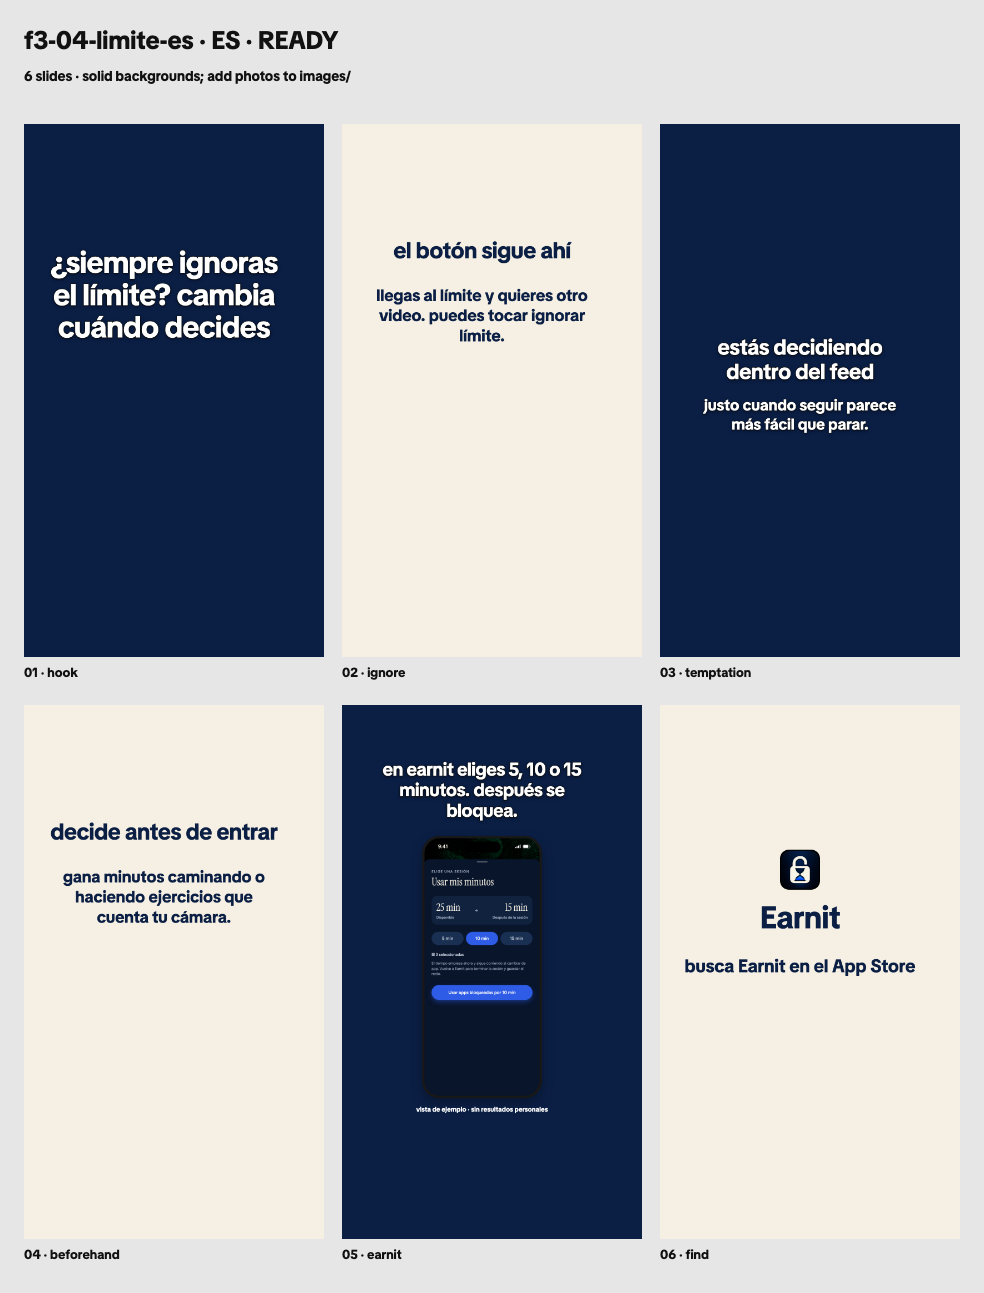
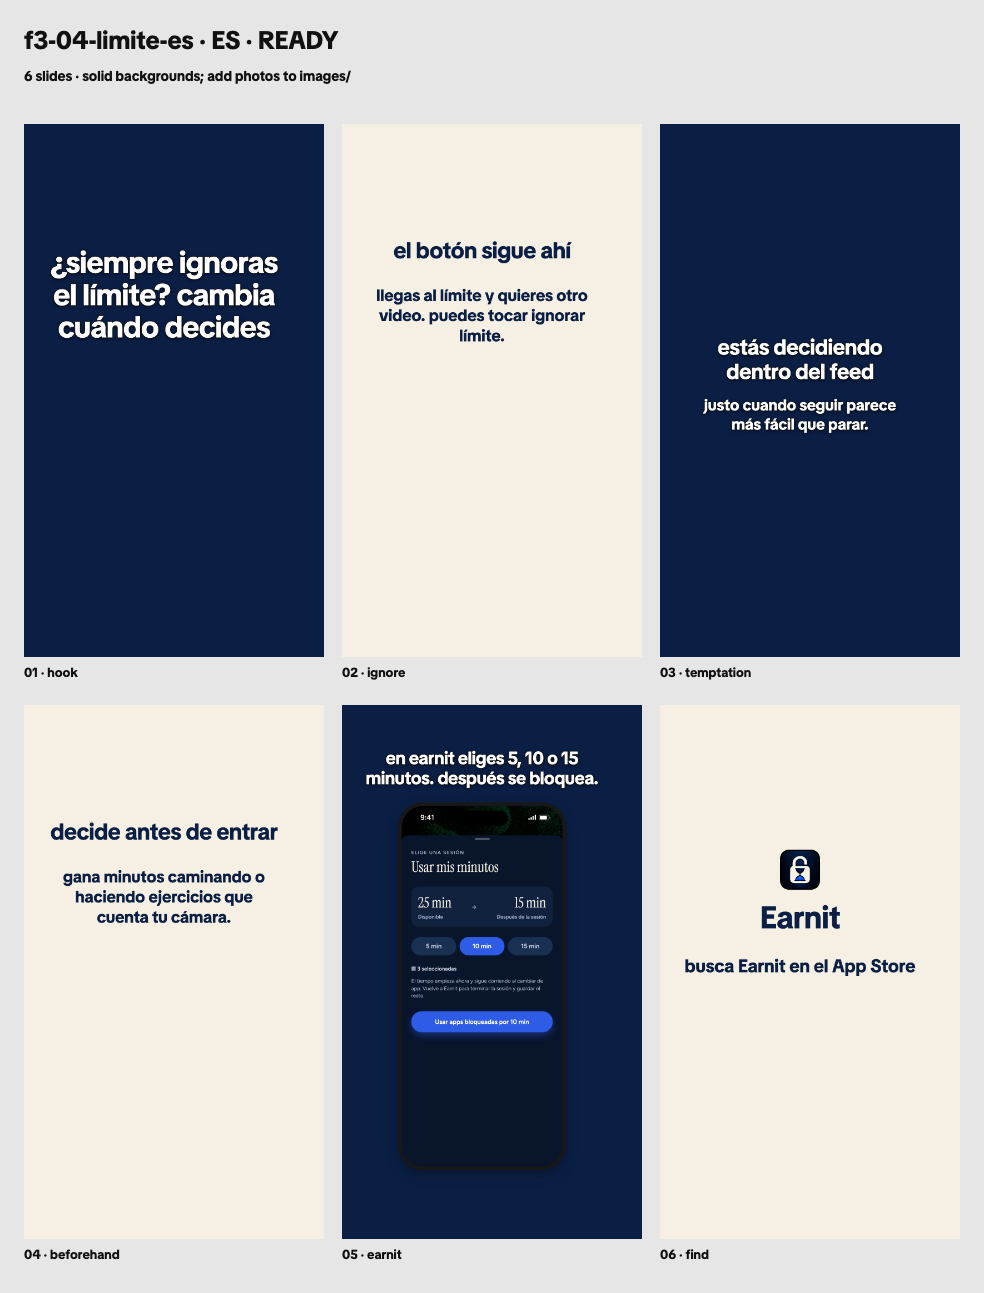
Enlarge slideshow phones and remove example-screen labels

Changed region(s): [[0.3659, 0.5568, 0.6098, 0.9281]]

diff --git a/marketing/tiktok-slideshows/render.js b/marketing/tiktok-slideshows/render.js
@@ -22,8 +22,12 @@ function slideHTML(post, format, slide, spec, screens, warnings) {
   const hasPhoto = photo && fs.existsSync(photo);
   if (photo && !hasPhoto) warnings.add(`Solid fallback: ${slide.image}`);
   const assetWarnings = new Set();
-  let phones = '', visual = '', demo = '', appIcon = '';
-  const phone = file => `<div class="phone">${imageTag(file)}</div>`;
+  let phones = '', visual = '', appIcon = '';
+  const phone = asset => {
+    const file = typeof asset === 'string' ? asset : asset.file;
+    const bounds = typeof asset === 'string' ? '' : ` data-ui-bounds="${escape(JSON.stringify(asset.bounds))}"`;
+    return `<div class="phone"><img src="${escape(fileURL(file))}"${bounds} alt=""></div>`;
+  };
   if (spec.screen) phones = phone(screens[`${post.language}/${slide.screen}`]);
   if (spec.app) {
     appIcon = icon(slide.app, assetWarnings);
@@ -35,13 +39,12 @@ function slideHTML(post, format, slide, spec, screens, warnings) {
     }).join('');
   }
   if (spec.iconSwap) visual = `<section class="icon-swap" data-safe><div class="icon-group">${slide.fromApps.map(app => icon(app, assetWarnings)).join('')}</div><svg class="arrow" viewBox="0 0 130 120" aria-hidden="true"><path d="M8 92Q65 15 115 73M85 35l33 42-50 2" stroke="currentColor" stroke-width="12" stroke-linecap="round" stroke-linejoin="round" fill="none"/></svg><div class="icon-group">${slide.toApps.map(app => icon(app, assetWarnings)).join('')}</div></section>`;
-  if (spec.screen || slide.app === 'earnit') demo = `<div class="demo" data-safe>${post.language === 'es' ? 'vista de ejemplo · sin resultados personales' : 'example screen · no personal results'}</div>`;
   if (spec.layout === 'cta') appIcon = icon('earnit', warnings);
   const dataPlaceholder = Object.values(slide.copy).some(value => value.includes('{{'));
   const assetPlaceholder = assetWarnings.size > 0;
   for (const note of assetWarnings) warnings.add(note);
   const draftLabel = dataPlaceholder ? (post.language === 'es' ? 'plantilla · añade datos reales' : 'template · add real data') : assetPlaceholder ? (post.language === 'es' ? 'borrador · faltan imágenes' : 'draft · assets needed') : '';
-  const values = { title: escape(slide.copy.title), body: escape(slide.copy.body), phones, visual, demo, icon: appIcon };
+  const values = { title: escape(slide.copy.title), body: escape(slide.copy.body), phones, visual, icon: appIcon };
   const template = fs.readFileSync(path.join(ROOT, 'layouts', `${spec.layout}.html`), 'utf8');
   const content = template.replace(/{{(\w+)}}/g, (_, key) => values[key] || '').replace(/<p><\/p>/g, '');
   return `<!doctype html><html lang="${post.language}"><head><meta charset="utf-8"><link rel="stylesheet" href="${fileURL(path.join(ROOT, 'layouts/base.css'))}"></head>
@@ -55,7 +58,10 @@ async function auditSlide(page) {
     const rect = el => el.getBoundingClientRect();
     for (const block of document.querySelectorAll('[data-safe]')) {
       const r = rect(block);
-      if (r.top < 150 || r.bottom > 1520 || r.left < 60 || r.right > 960) issues.push(`Outside safe zone: ${block.className}`);
+      // Empty phone chrome may extend below the text-safe band; actual UI text
+      // is checked against that band using bounds captured from its source DOM.
+      const bottomLimit = block.classList.contains('phones') ? 1920 : 1520;
+      if (r.top < 150 || r.bottom > bottomLimit || r.left < 60 || r.right > 960) issues.push(`Outside safe zone: ${block.className}`);
       if (block.scrollWidth > block.clientWidth + 1 || block.scrollHeight > block.clientHeight + 1) issues.push(`Overflow: ${block.className}`);
       for (const text of block.querySelectorAll('h1,p')) {
         const r = rect(text);
@@ -63,6 +69,15 @@ async function auditSlide(page) {
         const style = getComputedStyle(text);
         const lines = Math.round((r.height - parseFloat(style.paddingTop) - parseFloat(style.paddingBottom)) / parseFloat(style.lineHeight));
         if (block.classList.contains('body') && text.tagName === 'P' && lines > 3) issues.push(`Body exceeds three lines: ${text.textContent}`);
+      }
+    }
+    for (const image of document.querySelectorAll('img[data-ui-bounds]')) {
+      const r = rect(image);
+      const scale = Math.max(r.width / image.naturalWidth, r.height / image.naturalHeight);
+      const left = r.left + (r.width - image.naturalWidth * scale) / 2;
+      const top = r.top + (r.height - image.naturalHeight * scale) / 2;
+      for (const text of JSON.parse(image.dataset.uiBounds)) {
+        if (left + text.x * scale < 60 || left + (text.x + text.width) * scale > 960 || top + text.y * scale < 150 || top + (text.y + text.height) * scale > 1520) issues.push(`Phone UI text outside safe zone: ${text.text}`);
       }
     }
     const heading = document.querySelector('.product-heading'), phones = document.querySelector('.phones');
@@ -122,7 +137,8 @@ async function main() {
       const [language, screen] = key.split('/');
       if (!SCREENS.includes(screen)) throw new Error('Unsupported screen');
       const destination = path.join(work, `${language}-${screen}.png`);
-      await renderScreen(browser, screen, language, destination); screens[key] = destination;
+      const bounds = await renderScreen(browser, screen, language, destination);
+      screens[key] = { file: destination, bounds };
     }
     for (const {post,format} of jobs) {
       // Validate a complete post before replacing its previous successful export.
@@ -139,7 +155,18 @@ async function main() {
           const html = slideHTML(post,format,slide,format.slides[i],screens,warnings);
           const source = path.join(output,'slide.html'); fs.writeFileSync(source,html);
           await page.goto(fileURL(source));
-          await page.evaluate(async()=> { await document.fonts.ready; await Promise.all([...document.images].map(img=>img.decode())); });
+          await page.evaluate(async()=> {
+            await document.fonts.ready;
+            await Promise.all([...document.images].map(img=>img.decode()));
+            const title = document.querySelector('.native .product-heading h1');
+            if (title) {
+              const heading = title.parentElement, phones = document.querySelector('.phones');
+              for (let size = 66; size >= 48; size--) {
+                title.style.fontSize = `${size}px`;
+                if (heading.getBoundingClientRect().bottom + 25 <= phones.getBoundingClientRect().top) break;
+              }
+            }
+          });
           const audit = await auditSlide(page);
           if (audit.issues.length || errors.length) throw new Error(`${post.id}/${i+1}: ${[...audit.issues,...errors].join('; ')}`);
           const filename = `${String(i+1).padStart(2,'0')}.png`;

diff --git a/marketing/tiktok-slideshows/layouts/base.css b/marketing/tiktok-slideshows/layouts/base.css
@@ -12,18 +12,17 @@ h1,p{margin:0;overflow-wrap:break-word;padding-bottom:.16em}h1{font-size:78px;li
 .hook{top:440px}.hook h1{font-size:108px;line-height:1.08;letter-spacing:-1.6px}
 .body{top:410px}.body h1{font-size:82px}.body p{max-width:800px;margin:66px auto 0}
 .caption-band{top:720px;background:#0008;padding:40px 28px;border-radius:4px}.caption-band h1{font-size:78px}.caption-band p{font-size:56px;margin-top:30px}
-.product-heading{top:195px}.product-heading h1{font-size:66px;line-height:1.12}.product-heading p{font-size:42px;line-height:1.18;margin-top:18px}
-.phones{position:absolute;left:80px;top:470px;width:848px;display:flex;justify-content:center;gap:20px}
-.phone{position:relative;width:432px;height:944px;flex:none;border:9px solid #181818;border-radius:64px;background:#181818;box-shadow:0 18px 40px #0004;overflow:hidden}
-.phone img{display:block;width:100%;height:100%;object-fit:cover;border-radius:50px}
-.demo{position:absolute;top:1440px;left:80px;width:848px;font-size:24px;text-align:center;line-height:1.2}
+.product-heading{top:155px}.product-heading h1{font-size:66px;line-height:1.12}.product-heading p{font-size:42px;line-height:1.18;margin-top:18px}
+.phones{position:absolute;left:80px;top:350px;width:848px;display:flex;justify-content:center;gap:20px}
+.phone{position:relative;width:605px;height:1322px;flex:none;border:13px solid #181818;border-radius:90px;background:#181818;box-shadow:0 18px 40px #0004;overflow:hidden}
+.phone img{display:block;width:100%;height:100%;object-fit:cover;border-radius:70px}
 .cta{top:520px}.app-icon{width:144px;height:144px;object-fit:cover;border-radius:32px;margin-bottom:32px}.cta h1{font-size:112px}.cta p{font-size:65px}
 .clean-list{background:#f2f2f2;color:#111}.clean-list .shade{display:none}.clean-list .copy{text-shadow:none}
 .clean-list .hook{top:200px}.clean-list .hook h1{font-size:100px;line-height:1.08}
 .clean-list .product-heading{text-align:left;top:215px;min-height:180px;padding-left:165px}.clean-list .product-heading .app-icon{position:absolute;left:0;top:0;width:135px;height:135px;border-radius:30px}
 .clean-list .product-heading h1{font-size:59px;letter-spacing:-1px}.clean-list .product-heading p{font-size:36px;line-height:1.22;margin-top:14px}
-.clean-list .phones{top:600px;gap:14px}.clean-list .phone{width:272px;height:594px;border-width:6px;border-radius:42px;box-shadow:0 10px 22px #0002}.clean-list .phone img{border-radius:34px}
-.clean-list .demo{top:1240px;color:#444}.icon-swap{position:absolute;top:660px;left:80px;width:848px;display:flex;align-items:center;justify-content:space-between}
+.clean-list .phones{left:60px;top:550px;width:900px;gap:0}.clean-list .phone{width:300px;height:655px;border-width:7px;border-radius:46px;box-shadow:0 10px 22px #0002}.clean-list .phone img{border-radius:37px}
+.icon-swap{position:absolute;top:660px;left:80px;width:848px;display:flex;align-items:center;justify-content:space-between}
 .icon-group{width:330px;display:grid;grid-template-columns:repeat(2,140px);gap:34px}.icon-group img{width:140px;height:140px;border-radius:30px}
 .arrow{width:130px;height:120px;flex:none}.draft{position:absolute;top:153px;left:80px;width:848px;text-align:center;font:700 26px/1.2 TikTok;color:inherit}
 .has-draft .product-heading{top:240px}.has-draft .hook{top:260px}

diff --git a/marketing/tiktok-slideshows/lib/screens.js b/marketing/tiktok-slideshows/lib/screens.js
@@ -71,7 +71,21 @@ async function renderScreen(browser, screen, language, destination) {
       for (const image of document.images) await image.decode();
     }, { screen, language, localizations: sessionStrings(language) });
     if (errors.length) throw new Error(errors.join('; '));
+    const bounds = await page.evaluate(() => {
+      const walker = document.createTreeWalker(document.body, NodeFilter.SHOW_TEXT);
+      const bounds = [];
+      while (walker.nextNode()) {
+        const node = walker.currentNode;
+        if (!node.textContent.trim()) continue;
+        const range = document.createRange(); range.selectNodeContents(node);
+        for (const r of range.getClientRects()) if (r.width && r.height) bounds.push({
+          x: r.x, y: r.y, width: r.width, height: r.height, text: node.textContent.trim()
+        });
+      }
+      return bounds;
+    });
     await page.screenshot({ path: destination });
+    return bounds;
   } finally { await page.close(); fs.unlinkSync(workFile); }
 }
 

diff --git a/marketing/tiktok-slideshows/layouts/product.html b/marketing/tiktok-slideshows/layouts/product.html
@@ -1,3 +1,2 @@
 <section class="copy product-heading" data-safe>{{icon}}<h1>{{title}}</h1><p>{{body}}</p></section>
 <section class="phones" data-safe>{{phones}}</section>
-{{demo}}

diff --git a/marketing/tiktok-slideshows/README.md b/marketing/tiktok-slideshows/README.md
@@ -102,8 +102,9 @@ F4's **four starters are templates**, with obvious placeholders for every
 measurement and observation. Replace these with your real log and source;
 there are no fictional diaries. F5 describes possible choices, not personal
 before/after results. Its report is the existing Your day screen with numbers
-replaced by dashes. All exported product screens are labeled examples, and
-sample streak/outcome badges from the App Store artwork are excluded.
+replaced by dashes. Sample streak/outcome badges from the App Store artwork
+are excluded. Product slides have no example-screen label. Single-phone mockups
+are 605 × 1322; the three-phone lists use 300 × 655 phones to fit the safe width.
 
 F6's **four starters are asset drafts** until you supply genuine third-party
 icons and screenshots. See [the asset manifest](images/third-party/README.md).
@@ -140,7 +141,10 @@ Research images are references only and are never read by the renderer.
    again after any copy, asset or layout change.
 
 The canvas is 1080 × 1920. Key content must stay in **x=60…960, y=150…1520**;
-normal copy is inset farther to x=80…928. Every render checks safe bounds,
+normal copy is inset farther to x=80…928. Empty phone chrome can extend below
+the text-safe band; the renderer maps the original phone UI text bounds into
+each enlarged mockup and checks that text against the safe zone too.
+Every render checks safe bounds,
 overflow, phone/heading collisions, missing images, failed fonts/resources and
 network requests. It fails instead of exporting a clipped slide. Native hooks
 stay large enough to read in a contact sheet. The renderer rejects hidden

diff --git a/marketing/tiktok-slideshows/previews/REVIEW.md b/marketing/tiktok-slideshows/previews/REVIEW.md
@@ -4,6 +4,8 @@ Reviewed 2026-10-29. All 24 contact sheets were visually inspected, covering 152
 
 Checks: readable hooks at thumbnail size; safe-zone spacing; no clipped or overflowing copy; no hidden feature or competitor content. Ivory fallback contrast was corrected, and a long body paragraph was shortened before the final render.
 
+Re-reviewed the 20 changed contact sheets after removing the example-screen labels in both languages. Single-phone mockups are 40% larger in width and height (605 × 1322); three-phone rows are enlarged to the safe width (300 × 655 each). The renderer also verifies text inside the enlarged Earnit screens against the safe zone. The four seven-day sheets are unchanged.
+
 Native starters use the requested solid fallbacks until photos are supplied. F4 keeps real-data placeholders; F6 keeps labeled third-party asset slots. Those eight posts remain drafts. Product screens show illustrative mechanics, with personal outcome/streak figures removed.
 
 | Post | Language | State |
